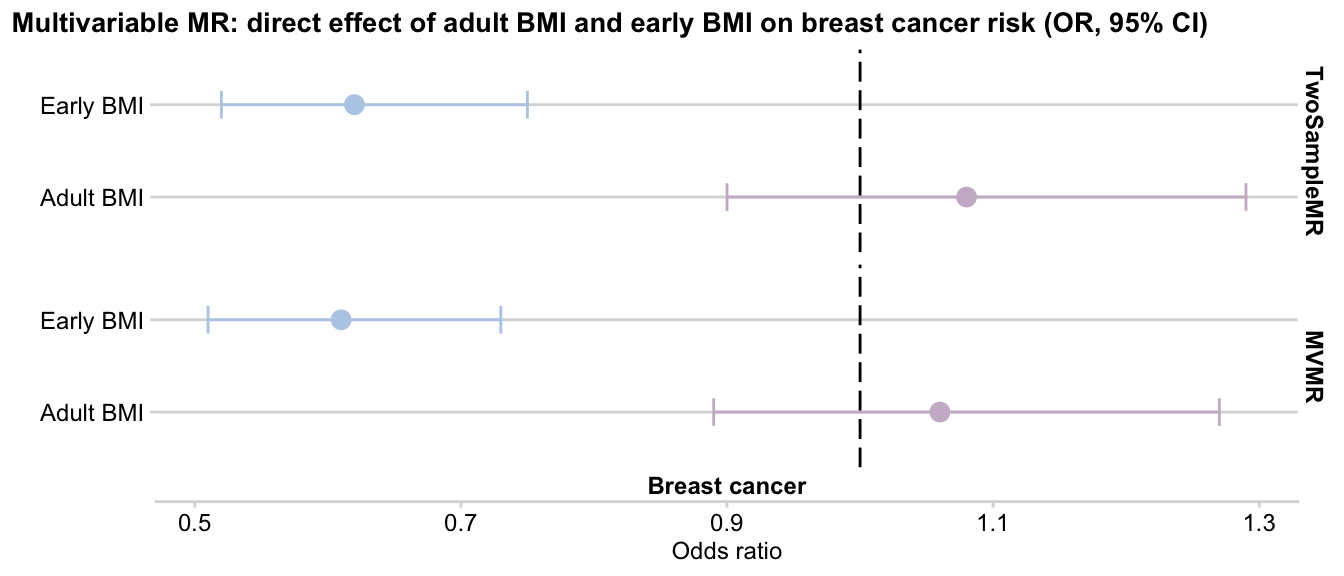
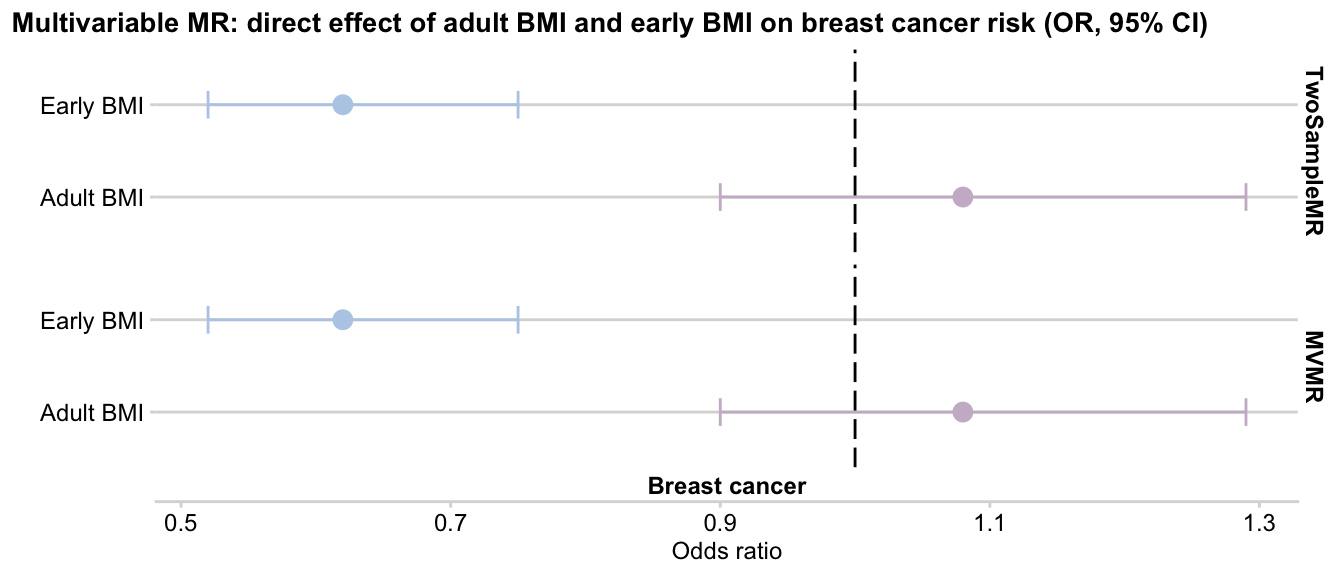
update mvmvr harmonisation

diff --git a/content/post/2021-03-14-setting-up-multivariable-mendelian-randomization-analysis.html b/content/post/2021-03-14-setting-up-multivariable-mendelian-randomization-analysis.html
@@ -18,10 +18,11 @@ tags:
 <script src="/rmarkdown-libs/anchor-sections/anchor-sections.js"></script>
 
 
-<p>There are many tutorials and examples for performing a standard univariable Mendelian Randomization (MR) analysis using <a href="https://github.com/MRCIEU/TwoSampleMR"><strong>TwoSampleMR package</strong></a>. However, there is limited guidance available for setting up an efficient multivariable MR. It might be especially difficult to get started if you are using local data (i.e. not from MR-Base), or need to combine local and MR-base data, and also if you are looking to do your analysis with the newer multivariable MR package, <a href="https://github.com/WSpiller/MVMR"><strong>MVMR</strong></a>.</p>
+<p>There are many tutorials and examples for performing a standard univariable Mendelian Randomization (MR) analysis using <a href="https://github.com/MRCIEU/TwoSampleMR"><strong>TwoSampleMR package</strong></a>. However, there is limited guidance available for setting up an efficient multivariable MR. It might be especially difficult to get started if you are using local data (i.e. not from MR-Base/<a href="https://gwas.mrcieu.ac.uk/">OpenGWAS</a>), or need to combine local and MR-base data, and also if you are looking to do your analysis with the newer multivariable MR package, <a href="https://github.com/WSpiller/MVMR"><strong>MVMR</strong></a>.</p>
 <p>In this blog post, I want to share my multivariable MR workflow. The workflow includes tidying up raw GWAS data (in my case, data from the IEU GWAS pipeline), doing the analysis first with the TwoSampleMR package, then converting the data into the format required for the MVMR package, and then repeating the analysis using it. Basically, this is the guide that I wish I had found a year ago when I first started doing MR analyses.</p>
 <p><img src="/figs/mvmr.png" width="800px" /></p>
 <p><em>Disclaimer:</em> I set up this workflow when I was working on my first ever MR project. It may not be the ultimate way to do it, but it worked well for me and I used it to reproduce the results from colleagues’ multivariable MR analyses. I’m still learning - if you know how to do it better, please share it.</p>
+<p><em>Update (June 2021)</em>: Thank you Maria Sobczyk-Barad at MRC IEU for identifying the reason why TwoSampleMR and MVMR results don’t match perfectly and suggesting a solution. The code has been updated to use <code>mv_harmonise_data</code> in <code>make_mvmr_input</code>.</p>
 <p><strong>Quick summary of what this guide will show:</strong></p>
 <ul>
 <li>how to prepare local GWAS summary statistics data files (i.e. raw output from a GWAS pipeline) for (any) MR analysis</li>
@@ -106,7 +107,7 @@ full_gwas_list &lt;- list(early_bmi_gwas, adult_bmi_gwas)</code></pre>
 </div>
 <div id="multivariable-mr-with-twosamplemr-package" class="section level2">
 <h2>Multivariable MR with TwoSampleMR package</h2>
-<p>Multivariable MR with TwoSampleMR using MR-Base data is well-described in the original <a href="https://mrcieu.github.io/TwoSampleMR/articles/perform_mr.html#multivariable-mr">TwoSampleMR guide</a>. Here I’ll be showing how to set up the first step of analysis (i.e. extracting instrumental variables from the exposures) if your exposure data is local. <em>NB please see the important <a href="#note"><span style="color:red">note</span></a> about this approach later.</em></p>
+<p>Multivariable MR with TwoSampleMR using MR-Base data is well-described in the original <a href="https://mrcieu.github.io/TwoSampleMR/articles/perform_mr.html#multivariable-mr">TwoSampleMR guide</a>. Here I’ll be showing how to set up the first step of the analysis (i.e. extracting instrumental variables from the exposures) if your exposure data is local. <em>NB please see the important <a href="#note"><span style="color:red">note</span></a> about this approach later.</em></p>
 <p>I created a modified version of the original TwoSampleMR function <code>mv_extract_exposures()</code> for extracting instruments for multiple exposures: <code>get_mv_exposures()</code> uses as input the lists of tophits/full datathat we generated earlier and produces a data frame in the same format as the original <code>mv_extract_exposures()</code>.</p>
 <p>Using <code>get_mv_exposures</code> we create <code>exposure_dat</code>:</p>
 <pre class="r"><code>#Create exposure_dat, i.e. obtain instruments for each exposure (early BMI/adult BMI)
@@ -142,7 +143,7 @@ result_2smr
 2     1.29</code></pre>
 <p>Now let’s take a step back and inspect <code>get_mv_exposures()</code>:</p>
 <p><a id="note"></a></p>
-<p><strong><span style="color:red">Please note:</span></strong> <em>at the time of writing this blog post (March 2021), I discovered that a new <a href="https://github.com/MRCIEU/TwoSampleMR/commit/a7d096809073b0da16896abdb64b8ea06f309e27#diff-e7246f626d1acc1f40c81a1873f0f658273c6eb7f1b83751424ef1ae5ec47834R89">function <code>mv_extract_exposures_local()</code></a> was added to TwoSampleMR <a href="https://mrcieu.github.io/TwoSampleMR/articles/perform_mr.html#using-your-own-summary-data">guide</a> in February 2021 (appeared in the codebase in May 2020). It is implemented in a very similar way with using lists, as my version <code>get_mv_exposures()</code> below. Therefore, I wanted to mention here that this is not an attempt to re-engineer the new existing TwoSampleMR’s function - I arrived at this solution independently when working on my first MR project in March-April 2020, and I have a dated Gitlab copy of this work from March 2020. I still wanted to write up this work in a blog post, as some parts of it might be useful to someone. I have tested the new function and confirmed that my solution produces the same results.</em> <em><span style="color:lightgrey">(if l_full on <a href="https://github.com/MRCIEU/TwoSampleMR/blob/master/R/multivariable_mr.R#L114">line 114</a> is replaced with l_inst)</span></em></p>
+<p><strong><span style="color:red">Please note:</span></strong> <em>at the time of writing this blog post (March 2021), I discovered that a new <a href="https://github.com/MRCIEU/TwoSampleMR/commit/a7d096809073b0da16896abdb64b8ea06f309e27#diff-e7246f626d1acc1f40c81a1873f0f658273c6eb7f1b83751424ef1ae5ec47834R89">function <code>mv_extract_exposures_local()</code></a> was added to TwoSampleMR <a href="https://mrcieu.github.io/TwoSampleMR/articles/perform_mr.html#using-your-own-summary-data">guide</a> in February 2021 (appeared in the codebase in May 2020). It is implemented in a very similar way with using lists, as my version <code>get_mv_exposures()</code> below. Therefore, I wanted to mention here that this is not an attempt to re-engineer the new existing TwoSampleMR’s function - I arrived at this solution independently when working on my first MR project in March-April 2020, and I have a dated Gitlab copy of this work from March 2020. I still wanted to write up this work in a blog post, as some parts of it might be useful to someone. I have tested the new function and confirmed that my solution produces the same results.</em></p>
 <pre class="r"><code>get_mv_exposures &lt;- function(tophits_list, full_gwas_list) {
   
   ###
@@ -208,117 +209,105 @@ result_2smr
 <div id="multivariable-mr-with-mvmr-package" class="section level2">
 <h2>Multivariable MR with MVMR package</h2>
 <p>Next, we will create the input for multivariable MR analysis with the MVMR package. We can use the same <code>tophits_list</code> object and the <code>exposure_dat</code> data frame that were created as the inputs for the analysis with TwoSampleMR.</p>
-<p>The required MVMR input format is well-described in the package <a href="https://github.com/WSpiller/MVMR/blob/master/vignettes/MVMR.rmd#L38">vignette</a>, and an example of what the data should look like is provided. However, when I was trying to create it for the first time, I found it quite challenging. So after a few attempts and some guidance, I decided to automate it and created a function <code>make_mvmr_input()</code>. This function takes the same input as used by TwoSampleMR functions and generates the data in the format required for the MVMR function.</p>
-<p>The function takes <code>tophits_list</code>, <code>exposure_dat</code>, <code>outcome.id.mrbase</code> (dataset id in MR-Base)- or, if you want to use local data for the outcome, use <code>outcome.data</code> argument (expects full GWAS data in <code>.outcome</code> format).</p>
+<p>The required MVMR input format is well-described in the package <a href="https://github.com/WSpiller/MVMR/blob/master/vignettes/MVMR.rmd#L38">vignette</a>, and an example of what the data should look like is provided. However, when I was trying to create it for the first time, I found it quite challenging. So, after a few attempts and some guidance, I decided to automate it and created a function <code>make_mvmr_input()</code>. This function takes the same input as used by TwoSampleMR functions and generates the data in the format required for the MVMR function.</p>
+<p>The function takes <code>exposure_dat</code> data frame and <code>outcome.id.mrbase</code> (dataset id in MR-Base) or <code>outcome.data</code> (if you want to use local data for the outcome - expects full GWAS data in <code>.outcome</code> format).</p>
 <pre class="r"><code># create MVMR package input
 # (the function is defined later, remember to run it first)
-mvmr_input &lt;- make_mvmr_input(exposure_dat, tophits_list, outcome.id.mrbase= &#39;ieu-a-1126&#39;)</code></pre>
+mvmr_input &lt;- make_mvmr_input(exposure_dat, outcome.id.mrbase= &#39;ieu-a-1126&#39;)</code></pre>
 <p>The function returns <code>beta</code> and <code>se</code> values for each exposure in <code>mvmr_input$XGs</code> and same for the outcome in <code>mvmr_input$Y</code>.</p>
 <pre class="r"><code>glimpse(mvmr_input$XGs)
-Rows: 195
+Rows: 187
 Columns: 5
-$ SNP                       &lt;chr&gt; &quot;rs10050620&quot;, &quot;rs1013402&quot;, &quot;rs1013737&quot;, &quot;rs…
-$ `beta.exposure_Early BMI` &lt;dbl&gt; 0.015941500, -0.014079000, -0.010857900, 0.…
-$ `beta.exposure_Adult BMI` &lt;dbl&gt; 0.00968434, -0.02127110, -0.00575052, 0.013…
-$ `se.exposure_Early BMI`   &lt;dbl&gt; 0.00206879, 0.00207208, 0.00193935, 0.00194…
-$ `se.exposure_Adult BMI`   &lt;dbl&gt; 0.00210348, 0.00210760, 0.00197324, 0.00197…
+$ SNP    &lt;chr&gt; &quot;rs10050620&quot;, &quot;rs1013402&quot;, &quot;rs10404726&quot;, &quot;rs10510025&quot;, &quot;rs1051…
+$ betaX1 &lt;dbl&gt; 0.00968434, -0.02127110, 0.01384730, -0.01325810, -0.01372250,…
+$ betaX2 &lt;dbl&gt; 0.015941500, -0.014079000, 0.008036340, 0.000228142, -0.002796…
+$ seX1   &lt;dbl&gt; 0.00210348, 0.00210760, 0.00197647, 0.00228816, 0.00196677, 0.…
+$ seX2   &lt;dbl&gt; 0.00206879, 0.00207208, 0.00194207, 0.00224989, 0.00193431, 0.…
 
 glimpse(mvmr_input$Y)
-Rows: 195
+Rows: 187
 Columns: 3
-$ SNP          &lt;chr&gt; &quot;rs10050620&quot;, &quot;rs1013402&quot;, &quot;rs1013737&quot;, &quot;rs10404726&quot;, &quot;r…
-$ beta.outcome &lt;dbl&gt; -0.0114, 0.0045, 0.0013, 0.0152, -0.0010, -0.0100, 0.007…
-$ se.outcome   &lt;dbl&gt; 0.0071, 0.0068, 0.0066, 0.0066, 0.0074, 0.0062, 0.0075, …</code></pre>
+$ SNP          &lt;chr&gt; &quot;1&quot;, &quot;2&quot;, &quot;3&quot;, &quot;4&quot;, &quot;5&quot;, &quot;6&quot;, &quot;7&quot;, &quot;8&quot;, &quot;9&quot;, &quot;10&quot;, &quot;11&quot;,…
+$ beta.outcome &lt;dbl&gt; -0.0114, 0.0045, 0.0152, -0.0010, -0.0100, 0.0076, 0.005…
+$ se.outcome   &lt;dbl&gt; 0.0071, 0.0068, 0.0066, 0.0074, 0.0062, 0.0075, 0.0065, …</code></pre>
 <p>Next, we will select the required columns in <code>mvmr_input</code> when calling the <code>format_mvmr()</code> function from the MVMR package, which will further transform the data to work with the MVMR’s multivariable MR function.</p>
 <pre class="r"><code># format data to be in MVMR package-compatible df
-mvmr_out &lt;- format_mvmr(BXGs = mvmr_input$XGs %&gt;% select(contains(&quot;beta.&quot;)),  # exposure betas
+mvmr_out &lt;- format_mvmr(BXGs = mvmr_input$XGs %&gt;% select(contains(&quot;beta&quot;)),  # exposure betas
                         BYG = mvmr_input$YG$beta.outcome,                     # outcome beta
-                        seBXGs = mvmr_input$XGs %&gt;% select(contains(&quot;se.&quot;)),  # exposure SEs
+                        seBXGs = mvmr_input$XGs %&gt;% select(contains(&quot;se&quot;)),  # exposure SEs
                         seBYG = mvmr_input$YG$se.outcome,                     # outcome SEs
                         RSID = mvmr_input$XGs$SNP)                            # SNPs
 
 head(mvmr_out)
-         SNP  betaYG sebetaYG       betaX1      betaX2   sebetaX1   sebetaX2
-1 rs10050620 -0.0114   0.0071  0.015941500  0.00968434 0.00206879 0.00210348
-2  rs1013402  0.0045   0.0068 -0.014079000 -0.02127110 0.00207208 0.00210760
-3  rs1013737  0.0013   0.0066 -0.010857900 -0.00575052 0.00193935 0.00197324
-4 rs10404726  0.0152   0.0066  0.008036340  0.01384730 0.00194207 0.00197647
-5 rs10510025 -0.0010   0.0074  0.000228142 -0.01325810 0.00224989 0.00228816
-6 rs10514963 -0.0100   0.0062 -0.002796960 -0.01372250 0.00193431 0.00196677</code></pre>
+         SNP  betaYG sebetaYG      betaX1       betaX2   sebetaX1   sebetaX2
+1 rs10050620 -0.0114   0.0071  0.00968434  0.015941500 0.00210348 0.00206879
+2  rs1013402  0.0045   0.0068 -0.02127110 -0.014079000 0.00210760 0.00207208
+3 rs10404726  0.0152   0.0066  0.01384730  0.008036340 0.00197647 0.00194207
+4 rs10510025 -0.0010   0.0074 -0.01325810  0.000228142 0.00228816 0.00224989
+5 rs10514963 -0.0100   0.0062 -0.01372250 -0.002796960 0.00196677 0.00193431
+6 rs10798139  0.0076   0.0075 -0.00875656 -0.013707400 0.00239406 0.00235527</code></pre>
 <p>Now apply <code>ivw_mvmr()</code> MVMR’s multivariable MR function:</p>
 <pre class="r"><code>#  estimate causal effects using method in MVMR package
 mvmr_res &lt;- ivw_mvmr(r_input=mvmr_out)
 
 Multivariable MR
 
-             Estimate Std. Error    t value     Pr(&gt;|t|)
-exposure1 -0.49167514 0.09347120 -5.2601779 3.804241e-07
-exposure2  0.06159543 0.08883253  0.6933883 4.888995e-01
+            Estimate Std. Error    t value     Pr(&gt;|t|)
+exposure1  0.0779729 0.09086391  0.8581284 3.919320e-01
+exposure2 -0.4727937 0.09655938 -4.8964031 2.119629e-06
 
-Residual standard error: 1.719 on 193 degrees of freedom</code></pre>
+Residual standard error: 1.712 on 185 degrees of freedom</code></pre>
 <p>Tidy up the output format:</p>
 <pre class="r"><code>result_mvmr &lt;-
     mvmr_res %&gt;% 
     tidy_mvmr_output() %&gt;% 
-    mutate(exposure = unique(exposure_dat$exposure),
+    mutate(exposure = mvmr_input$exposures,
            outcome = &#39;Breast cancer&#39;) %&gt;% 
     select(exposure, outcome, everything()) %&gt;% 
     tidy_pvals()
 
 result_mvmr
    exposure       outcome     b   se    pval lo_ci up_ci   or or_lci95 or_uci95
-1 Early BMI Breast cancer -0.49 0.09 3.8e-07 -0.67 -0.31 0.61     0.51     0.73
-2 Adult BMI Breast cancer  0.06 0.09 4.9e-01 -0.11  0.24 1.06     0.89     1.27</code></pre>
+1 Adult BMI Breast cancer  0.08 0.09 3.9e-01 -0.10  0.26 1.08     0.90     1.29
+2 Early BMI Breast cancer -0.47 0.10 2.1e-06 -0.66 -0.28 0.62     0.52     0.75</code></pre>
 <p>Let’s take look closer at what is happening in the <code>make_mvmr_input()</code> function:</p>
 <pre class="r"><code>#  function to convert 2SMR format into MVMR format
-
-make_mvmr_input &lt;- function(exposure_dat, tophits_list, outcome.id.mrbase=&quot;&quot;, outcome.data=&quot;&quot;){
-  # provide exposure_dat and tophits_list created in the same as for TwoSampleMR 
+make_mvmr_input &lt;- function(exposure_dat, outcome.id.mrbase=&quot;&quot;, outcome.data=&quot;&quot;){
+  # provide exposure_dat created in the same way as for TwoSampleMR 
   # also specify the outcome argument [only ONE!] (MR-base ID or full gwas data in .outcome format)
-  
-  # convert exposure_dat to wider format
-  exposures_joined_auto &lt;- exposure_dat %&gt;%
-    select(SNP, exposure, beta.exposure, se.exposure) %&gt;% 
-    pivot_wider(names_from = exposure, values_from = c(beta.exposure, se.exposure)) 
 
-  
   # extract SNPs for both exposures from outcome dataset
   # (for the selected option mr.base or local outcome data)
   if (outcome.id.mrbase != &quot;&quot;) {
     # if mrbase.id is provided
-    outcome_dat &lt;- extract_outcome_data(snps = exposures_joined_auto$SNP,
+    outcome_dat &lt;- extract_outcome_data(snps = unique(exposure_dat$SNP),
                                         outcomes = outcome.id.mrbase)
   } else if (outcome.data != &quot;&quot;){
     # if outcome df is provided
     outcome_dat &lt;- outcome.data %&gt;% filter(SNP %in% exposures_joined_auto$SNP)
   }
   
-  # harmonize datasets 
-  exposures &lt;- bind_rows(tophits_list)
-  outcome_harmonised &lt;- harmonise_data(exposures, outcome_dat)
+  # harmonize datasets
+  exposure_dat &lt;- exposure_dat %&gt;% mutate(id.exposure = exposure)
+  outcome_harmonised &lt;- mv_harmonise_data(exposure_dat, outcome_dat)
   
   
   # Create variables for the analysis
-  # remove factors structure in SNPs, and sort by SNP (YGs and XGs must have SNPs in the same order)
-  YG &lt;- outcome_harmonised %&gt;% 
-    select(&quot;SNP&quot;, &quot;beta.outcome&quot;, &quot;se.outcome&quot;) %&gt;%
-    distinct() %&gt;%
-    mutate(SNP = as.character(SNP)) %&gt;%
-    arrange((SNP)) 
-  
-  XGs &lt;- exposures_joined_auto %&gt;% 
-    filter(SNP %in% outcome_harmonised$SNP) %&gt;%
-    mutate(SNP = as.character(SNP)) %&gt;%
-    arrange((SNP)) 
-  
-  # some checks
-  stopifnot(dim(XGs)[1]==dim(YG)[1])
-  unique(YG$SNP %in% XGs$SNP)
-  unique(XGs$SNP %in% YG$SNP)
-  all.equal(YG$SNP, XGs$SNP)
+  XGs &lt;- data.frame(betaX1 = outcome_harmonised$exposure_beta[,1],
+                    betaX2 = outcome_harmonised$exposure_beta[,2],
+                    seX1 = outcome_harmonised$exposure_se[,1],
+                    seX2 = outcome_harmonised$exposure_se[,2]) %&gt;% 
+        rownames_to_column(&#39;SNP&#39;)
 
+  YG &lt;- data.frame(beta.outcome = outcome_harmonised$outcome_beta,
+                   se.outcome = outcome_harmonised$outcome_se) %&gt;% 
+        rownames_to_column(&#39;SNP&#39;)
+  
+  exposures_order &lt;- colnames(outcome_harmonised$exposure_beta)
+  
   return(list(YG = YG,
-              XGs = XGs))
+              XGs = XGs,
+              exposures = exposures_order))
 }</code></pre>
 <p>Other functions used above:</p>
 <pre class="r"><code>tidy_pvals&lt;-function(df){
@@ -355,8 +344,8 @@ tidy_mvmr_output &lt;- function(mvmr_res) {
 <p><strong>MVMR:</strong></p>
 <pre class="r"><code>result_mvmr
    exposure       outcome     b   se    pval lo_ci up_ci   or or_lci95 or_uci95
-1 Early BMI Breast cancer -0.49 0.09 3.8e-07 -0.67 -0.31 0.61     0.51     0.73
-2 Adult BMI Breast cancer  0.06 0.09 4.9e-01 -0.11  0.24 1.06     0.89     1.27</code></pre>
+1 Adult BMI Breast cancer  0.08 0.09 3.9e-01 -0.10  0.26 1.08     0.90     1.29
+2 Early BMI Breast cancer -0.47 0.10 2.1e-06 -0.66 -0.28 0.62     0.52     0.75</code></pre>
 <p><img src="/post/2021-03-14-setting-up-multivariable-mendelian-randomization-analysis_files/figure-html/unnamed-chunk-23-1.png" width="90%" /></p>
 <p><br>
 <br></p>
